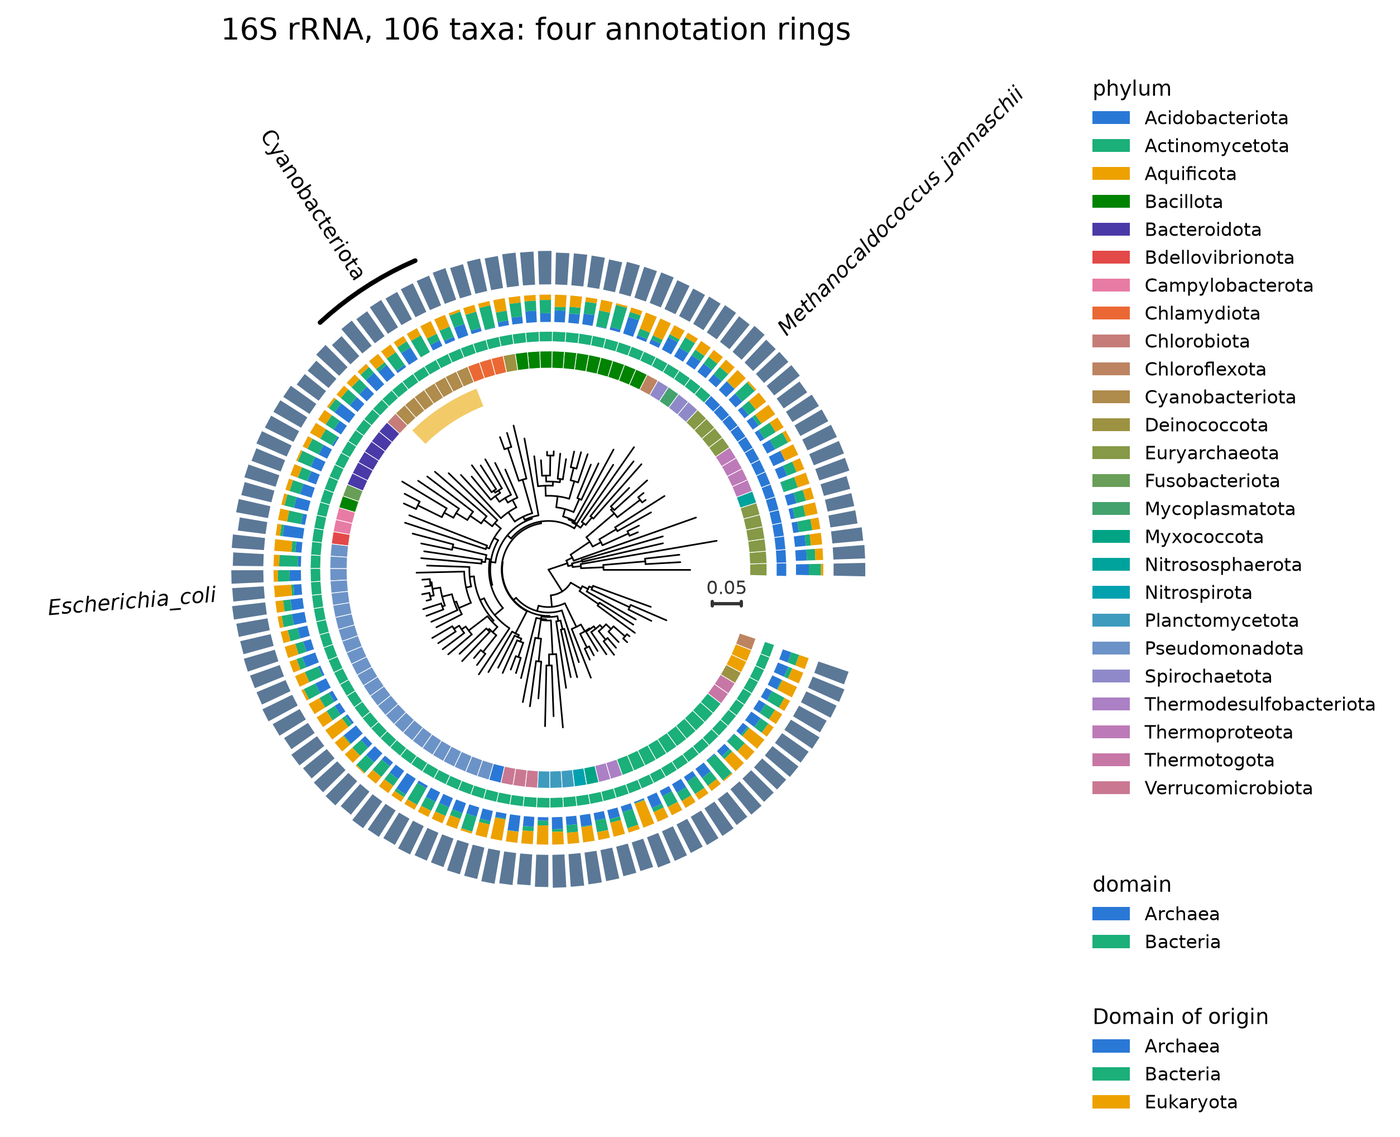
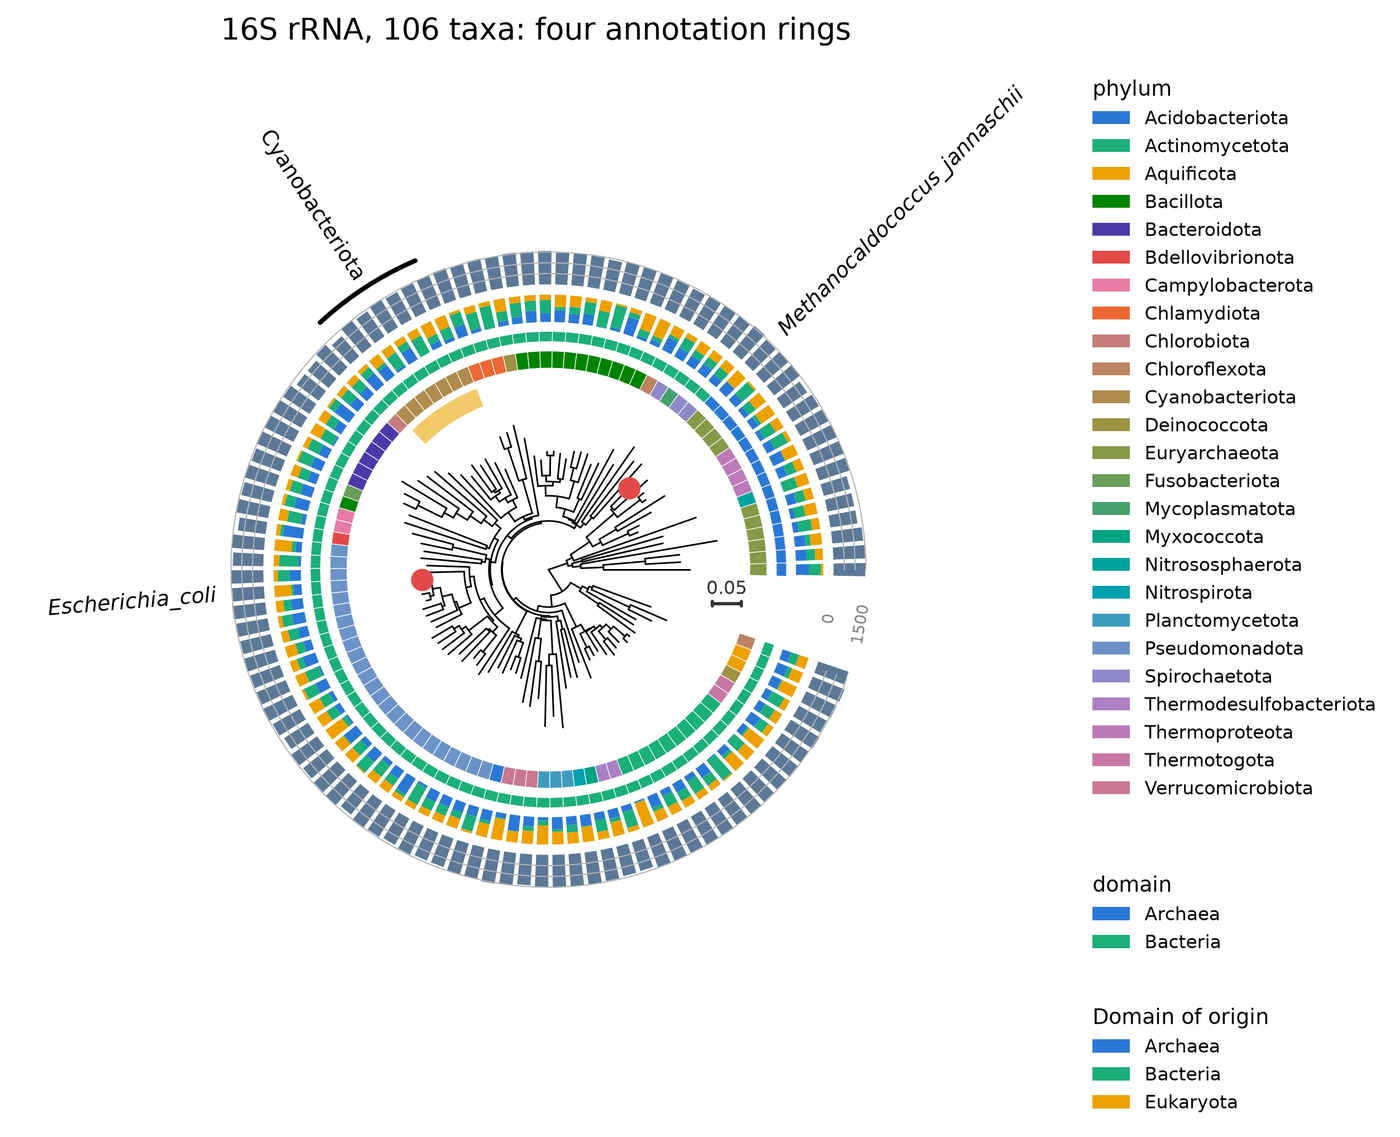
Give a bar ring a scale, and mark only the tips that were measured
A ring of bars with nothing to read them against is decoration: two can be
compared and nothing taken off either. Same argument as the rectangular
bar_track's axis, and it bites hardest where the bars look alike -- 16S
lengths run 1238 to 1584, which against a zero baseline is a ring of
near-equal bars.

ring(geom="bar") now draws circles at round values, over the bars rather
than behind them, so the reference is there both where a bar falls short
and where it runs past. Two of them are numbered, the baseline and the
outermost, and the numbers read across the spoke rather than along it: a
ring is a fifth of the tree's radius wide and a 7pt number a tenth of it
tall in the same figure, so numbering all three along the spoke stacked
them into one blot (rendered, measured, rejected). The circles between the
two numbers are what a grid is for. axis=False turns it off.

tip_points(only=...) marks the handful of tips a measurement exists for --
a prediction, a validated hit -- instead of every tip, which says the
opposite. The colour scale is still built from the ones drawn.

diff --git a/phytreon/plot/elements.py b/phytreon/plot/elements.py
@@ -367,8 +367,14 @@ class _Points(_Element):
     def __init__(self, which: str = "tip", color="black", size=6.0,
                  marker: str = "o", shape=None, edgecolor: Optional[str] = None,
                  palette: str = "curated", cmap=None, baseline=None,
-                 order=None):
+                 order=None, only=None):
         self.which = which                 # tip | node | all
+        #: Name, or names, of the only tips to mark. Papers mark the handful of
+        #: tips a measurement exists for -- a structure prediction, a validated
+        #: hit -- and a marker on every tip says the opposite of that. The
+        #: colour scale is still built from the ones drawn, so the key matches.
+        self.only = ({only} if isinstance(only, str)
+                     else set(only) if only is not None else None)
         self.color = color
         self.size = size
         self.marker = marker
@@ -381,10 +387,14 @@ class _Points(_Element):
 
     def _select(self, ctx):
         if self.which == "tip":
-            return ctx.tree.leaves()
-        if self.which == "node":
-            return [n for n in ctx.tree.traverse() if not n.is_leaf]
-        return ctx.tree.nodes()
+            nodes = ctx.tree.leaves()
+        elif self.which == "node":
+            nodes = [n for n in ctx.tree.traverse() if not n.is_leaf]
+        else:
+            nodes = ctx.tree.nodes()
+        if self.only is not None:
+            nodes = [n for n in nodes if n.name in self.only]
+        return nodes
 
     def apply(self, ctx: RenderContext) -> None:
         nodes = self._select(ctx)
@@ -1094,7 +1104,8 @@ class _Ring(_Element):
                  bar_pad: float = 0.25, colnames: bool = True,
                  colname_size: float = 8.0, separators: Optional[bool] = None,
                  leaders: bool = False, leader_color: str = "#cccccc",
-                 leader_width: float = 0.4, baseline=None, order=None):
+                 leader_width: float = 0.4, baseline=None, order=None,
+                 axis: bool = True):
         self.data = _index_by_name(data)
         self.columns = list(columns) if columns is not None else list(self.data.columns)
         if geom not in ("tile", "bar", "stack"):
@@ -1120,6 +1131,71 @@ class _Ring(_Element):
         self.leader_width = leader_width
         self.baseline = baseline       # level(s) greyed out as the default state
         self.order = order             # explicit legend order
+        #: Grid circles and their values on a ``"bar"`` ring. Without them the
+        #: bars are decoration -- you can compare two of them and read nothing
+        #: off either -- and it matters most exactly where the bars look alike,
+        #: because against a zero baseline a ring of near-equal values is a ring
+        #: of near-equal bars. Ignored by the other geoms, which have a legend.
+        self.axis = axis
+
+    @staticmethod
+    def _ticks(vmin: float, vmax: float, want: int = 3):
+        """Round values inside ``(vmin, vmax]`` -- 1, 2 or 5 times a power of ten."""
+        span = vmax - vmin
+        if span <= 0:
+            return []
+        mag = 10 ** math.floor(math.log10(span / want))
+        step = next((m * mag for m in (1.0, 2.0, 5.0)
+                     if span / (m * mag) <= want + 0.5), 10 * mag)
+        out, v = [], math.ceil(vmin / step) * step
+        while v <= vmax + 1e-9:
+            if v > vmin + 1e-9:
+                out.append(v)
+            v += step
+        return out
+
+    def _grid(self, ctx, lay, inner, w, vmin, vmax, gap_angle, half) -> None:
+        """Circles at round values behind a bar ring, and their numbers.
+
+        Without them the bars are decoration: two can be compared and nothing
+        read off either. It matters most exactly where the bars look alike --
+        16S lengths run 1238 to 1584, and against a zero baseline that is a ring
+        of near-equal bars, so the axis is what makes "nearly equal" read as the
+        finding rather than as a drawing that failed.
+        """
+        rng = (vmax - vmin) or 1.0
+        # The numbers go in the fan opening, *across* the spoke rather than
+        # along it -- the opposite of the column names, and for the same reason.
+        # A ring's name is one long string and the opening is a few degrees, so
+        # along the spoke is the only way it fits. These are several short
+        # numbers a fraction of the ring's width apart, and along the spoke they
+        # print over each other (three ticks on a ring 0.2 radii wide are 0.06
+        # radii apart, less than a four-digit number is long). Across it, what
+        # has to fit between them is only their height.
+        free = (2 * math.pi - lay.extent) / 2 - half
+        deg = math.degrees(gap_angle)
+        rot = deg - 90 if -90 <= (deg % 360) - 180 < 90 else deg + 90
+        ticks = self._ticks(vmin, vmax)
+        for val in ticks:
+            r = inner + (val - vmin) / rng * w
+            # over the bars, not behind them: the reference is wanted where a
+            # bar falls short *and* where it runs past, and behind them the
+            # circle is only visible in the half of the ring nothing reached
+            ctx.scene.add(Path(lay._arc(r, lay.start, lay.start + lay.extent),
+                               color="#b3b3b3", width=0.5, zorder=2.4))
+        # Two numbers, at the two ends: the baseline and the furthest circle.
+        # A ring is a fifth of the tree's radius wide and a 7pt number is a
+        # tenth of it tall in the same figure, so numbering every circle -- the
+        # obvious thing, and what a rectangular axis can do -- stacks three of
+        # them into one blot. The circles in between are then unlabelled, which
+        # is what a grid is for: they divide the interval the two numbers give.
+        if ticks and free > _RING_NAME_MIN_GAP:
+            for val in (vmin, ticks[-1]):
+                r = inner + (val - vmin) / rng * w
+                x, y = lay._polar_to_xy(r, gap_angle)
+                ctx.scene.add(Label(x, y, f"{val:g}", size=self.colname_size - 1,
+                                    color="#888888", ha="center", va="center",
+                                    rotation=rot))
 
     def _stack(self, ctx, lay, tips, inner, w, half) -> None:
         """Draw every column of one tip as one segment of a single bar.
@@ -1244,6 +1320,8 @@ class _Ring(_Element):
                     ctx.scene.add(Polygon(pts, facecolor=self.fill, edgecolor=None,
                                           alpha=1.0, zorder=2,
                                           label=f"{tip.name} | {col}: {val:g}"))
+                if self.axis:
+                    self._grid(ctx, lay, inner, w, vmin, vmax, gap_angle, half)
             else:
                 scale = build_color_scale(str(col), colvals,
                                           cmap=self.cmap, palette=self.palette,

diff --git a/tests/test_smoke.py b/tests/test_smoke.py
@@ -1,4 +1,6 @@
 """Smoke + correctness tests. Run: pytest -q"""
+import math
+
 import matplotlib
 matplotlib.use("Agg")
 
@@ -568,6 +570,57 @@ def test_ring_leaders_connect_every_tip_to_the_ring():
     ring_inner = min(radius(pt_) for poly in ctx.scene.polygons if poly.label
                      for pt_ in poly.points)
     assert max(radius(p.points[1]) for p in leads) <= ring_inner + 1e-9
+
+
+def _bar_ring(n=60, lo=1238, hi=1584, **kw):
+    import pandas as pd
+    tr = pt.datasets.random_tree(n, seed=12)
+    vals = [lo + (hi - lo) * i / (n - 1) for i in range(n)]
+    df = pd.DataFrame({"name": tr.leaf_names(), "len": vals})
+    return (pt.TreeFigure(tr, layout="circular", extent=340)
+            .ring(df, columns=["len"], geom="bar", width=0.2, **kw)._build())
+
+
+def test_a_bar_ring_has_a_scale():
+    # without one the bars are decoration: two can be compared and nothing read
+    # off either. It matters most where they look alike -- 16S lengths run 1238
+    # to 1584, which against a zero baseline is a ring of near-equal bars
+    ctx = _bar_ring()
+    lay = ctx.layout
+    inner = ctx.ring_base + 0.04 * lay.max_x        # + default offset
+    circles = [p for p in ctx.scene.paths if p.color == "#b3b3b3"]
+    assert len(circles) == 3                        # 500 / 1000 / 1500
+    radius = lambda p: (p[0] ** 2 + p[1] ** 2) ** 0.5      # noqa: E731
+    for arc in circles:
+        radii = [radius(p) for p in arc.points]
+        assert max(radii) - min(radii) < 1e-9       # a circle, not a spiral
+        assert inner - 1e-9 <= radii[0] <= inner + 0.2 * lay.max_x + 1e-9
+        # over the bars, not behind them: visible where a bar falls short and
+        # where it runs past
+        assert arc.zorder > 2
+    # two numbers, at the two ends, so three of them do not stack into one blot
+    nums = sorted(lb.text for lb in ctx.scene.labels if lb.text in
+                  ("0", "500", "1000", "1500"))
+    assert nums == ["0", "1500"]
+    outer = next(lb for lb in ctx.scene.labels if lb.text == "1500")
+    base = next(lb for lb in ctx.scene.labels if lb.text == "0")
+    assert radius((outer.x, outer.y)) > radius((base.x, base.y))
+    # and they read across the spoke, since along it they would overlap
+    assert abs(outer.rotation - math.degrees(math.atan2(outer.y, outer.x))) \
+        == pytest.approx(90, abs=1e-6)
+
+
+def test_the_bar_ring_scale_can_be_turned_off():
+    ctx = _bar_ring(axis=False)
+    assert not [p for p in ctx.scene.paths if p.color == "#b3b3b3"]
+    assert not [lb for lb in ctx.scene.labels if lb.text == "1500"]
+
+
+def test_a_flat_column_gets_no_grid_it_cannot_divide():
+    ctx = _bar_ring(lo=7.0, hi=7.0)
+    assert [p for p in ctx.scene.paths if p.color == "#b3b3b3"]  # 0 -> 7 is fine
+    ctx = _bar_ring(lo=0.0, hi=0.0)              # nothing to scale at all
+    assert not [p for p in ctx.scene.paths if p.color == "#b3b3b3"]
 
 
 def _stack_fig(n=12, cols=("Archaea", "Bacteria", "Eukaryota"), **kw):

diff --git a/examples/dense_circular_demo.py b/examples/dense_circular_demo.py
@@ -13,7 +13,9 @@ everything else moves out to concentric rings, each with its own key.
   * a composition ring for a mixture that no single value can carry -- what
     fraction of the sequences at this tip came from each domain
     (``ring(geom="stack")``)
-  * a bar ring for a number, with its own axis
+  * a bar ring for a number, with its own grid circles and their values
+  * markers on only the tips a measurement exists for
+    (``tip_points(only=...)``)
   * one clade called out by name, shaded behind the branches
   * a scale bar, because branch lengths in substitutions/site read as nothing
     without one
@@ -68,6 +70,7 @@ fig = (pt.TreeFigure(tree, layout="circular", extent=340)
              title="Domain of origin", width=0.16, gap=0.02)
        .ring(ann, columns=["length"], geom="bar", width=0.20, gap=0.02,
              colnames=False)
+       .tip_points(only=refs, size=9, color="#e34948")
        .tip_labels(only=refs, size=9, italic="taxa")
        .scale_bar()
        .titled("16S rRNA, 106 taxa: four annotation rings"))

diff --git a/tests/test_treeplots.py b/tests/test_treeplots.py
@@ -828,6 +828,18 @@ def test_max_labels_zero_names_none_of_them():
     assert _named(tr, max_labels=0) == []
 
 
+def test_only_marks_the_tips_a_measurement_exists_for():
+    # a marker on every tip says the opposite of "these are the ones we tested"
+    tr = pt.datasets.random_tree(40, seed=3)
+    names = tr.leaf_names()
+    ctx = pt.TreeFigure(tr).tip_points(only=names[:3], size=9)._build()
+    assert len(ctx.scene.markers) == 3
+    marked = {(round(m.x, 9), round(m.y, 9)) for m in ctx.scene.markers}
+    assert marked == {(round(t.x, 9), round(t.y, 9))
+                      for t in tr.leaves() if t.name in names[:3]}
+    assert len(pt.TreeFigure(tr).tip_points()._build().scene.markers) == 40
+
+
 def test_a_circular_highlight_is_a_ring_not_a_sector():
     # a sector filled from the centre has area growing with the square of its
     # radius, so it swamps the drawing; iTOL draws a band, and so does this

diff --git a/CHANGELOG.md b/CHANGELOG.md
@@ -68,6 +68,20 @@ All notable changes to phytreon are documented here. Format loosely follows
   than fighting it. `max_labels=0` now means *name none of them*, which is what
   a dense circular tree wants once the ring tracks carry the story (it was
   silently read as "no limit").
+- **`tip_points(only=...)`** marks just the tips a measurement exists for — a
+  structure prediction, a validated hit — instead of every tip, which says the
+  opposite. The colour scale is still built from the ones drawn, so the key
+  matches what is on the figure.
+- **A bar ring has a scale** (`ring(geom="bar")`, off with `axis=False`):
+  circles at round values, drawn *over* the bars so the reference is there both
+  where a bar falls short and where it runs past, with the baseline and the
+  outermost circle numbered in the fan opening. Only those two are numbered, and
+  they read *across* the spoke rather than along it — a ring is a fifth of the
+  tree's radius wide and a 7 pt number a tenth of it tall in the same figure, so
+  numbering all three circles along the spoke stacks them into one blot. The
+  circles in between are what a grid is for: they divide the interval the two
+  numbers give. Same argument as the rectangular `bar_track(axis=True)`: without
+  it the bars are decoration, and it matters most exactly where they look alike.
 - **`ring(geom="stack")`** draws one ring in which every column is a *segment*
   of each tip's bar, scaled so the segments fill the ring's width — a
   composition ring: *of the sequences at this tip, what fraction came from each
